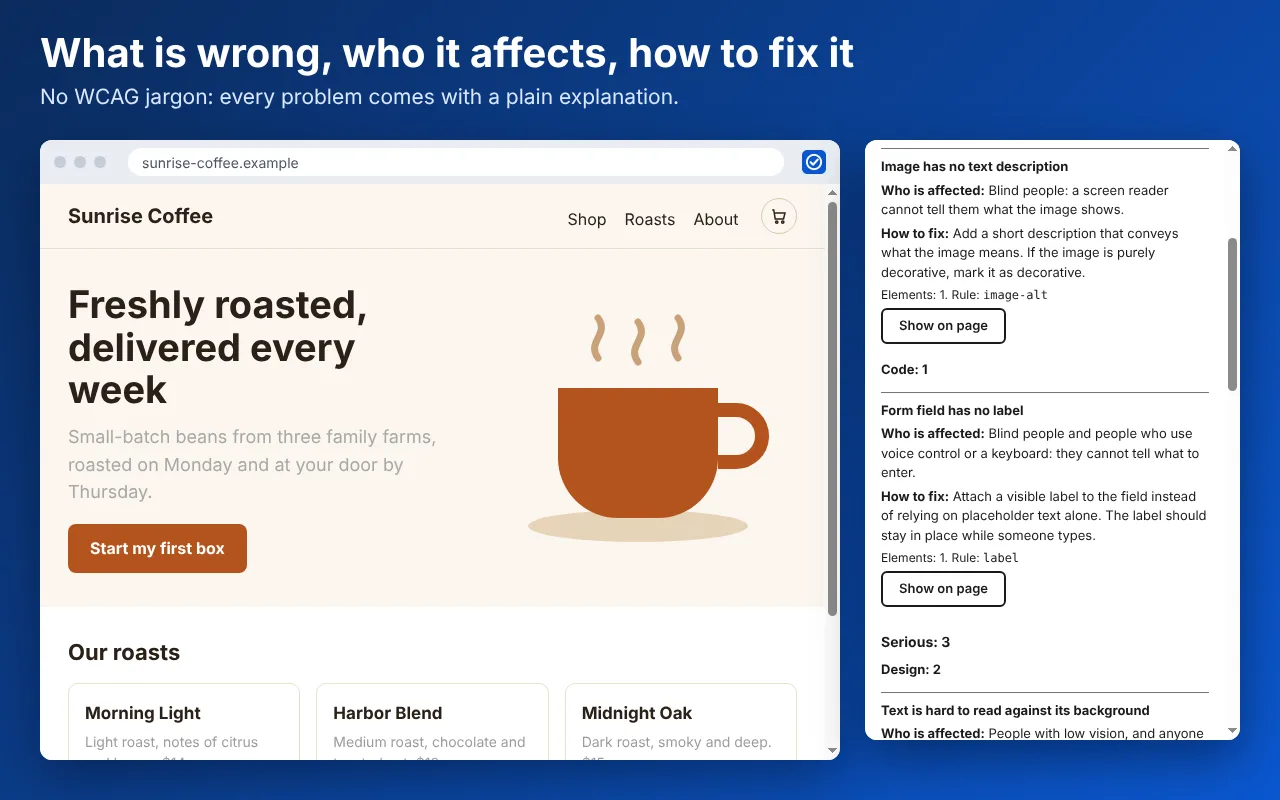
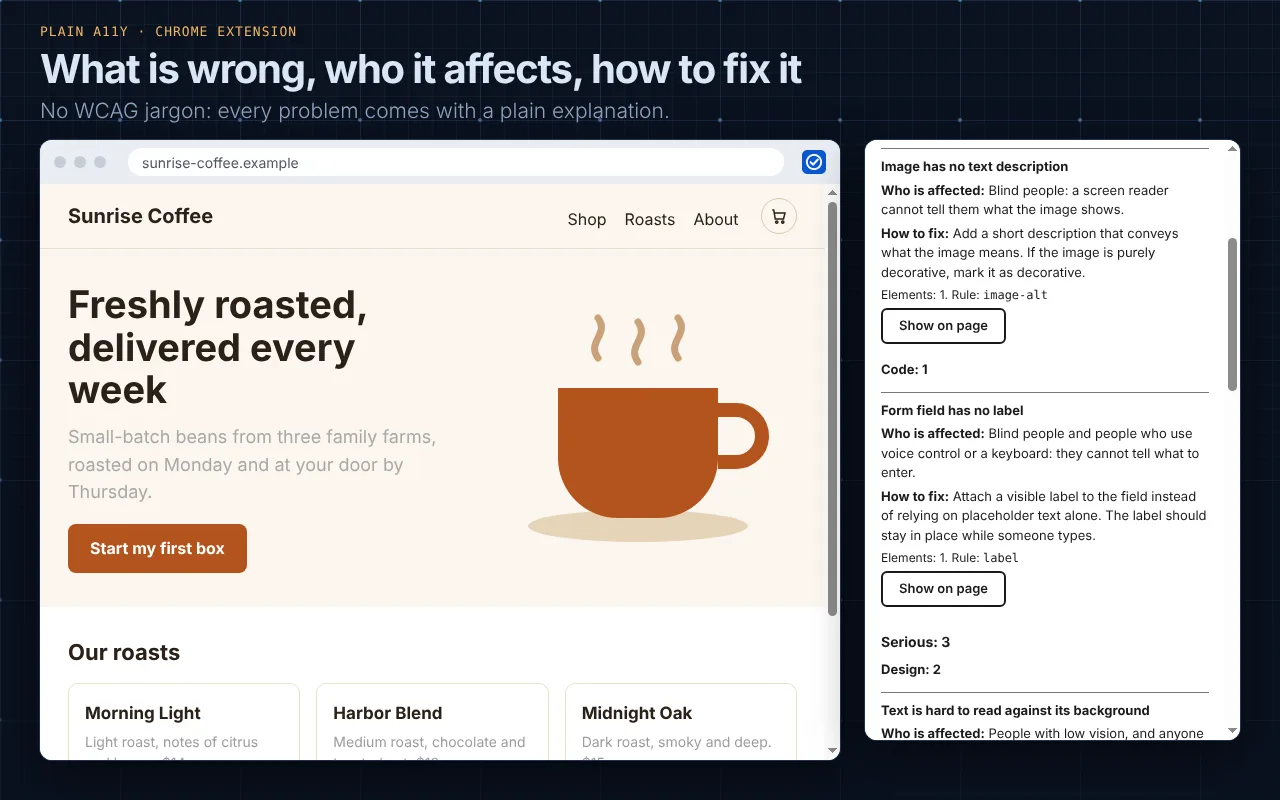
Site: brand title pattern, author tag, LinkedIn and GitHub in the footer, screenshots in the site palette
Claude-Session: https://claude.ai/code/session_012Dn7UsQVaKqD7whyVmPans

Changed region(s): [[0.0, 0.0, 1.0, 1.0]]

diff --git a/public/index.html b/public/index.html
@@ -3,8 +3,10 @@
   <head>
     <meta charset="utf-8" />
     <meta name="viewport" content="width=device-width, initial-scale=1" />
-    <title>Plain A11y: accessibility problems explained in plain language</title>
+    <title>Plain A11y: accessibility in plain language | Konstantin Beregovoy</title>
     <meta name="description" content="A free, open-source Chrome extension that checks a page for accessibility problems and explains each one in plain language: what is wrong, who it affects, how to fix it and who should do it." />
+    <meta name="author" content="Konstantin Beregovoy" />
+    <meta name="robots" content="index, follow" />
     <meta name="color-scheme" content="dark" />
     <meta name="theme-color" content="#0a1220" />
     <link rel="icon" href="assets/icon.svg" type="image/svg+xml" />
@@ -15,7 +17,7 @@
 
     <header class="site">
       <div class="wrap">
-        <a class="brand" href="./">
+        <a class="brand" href="./" aria-label="Plain A11y, home">
           <img src="assets/icon.svg" alt="" width="36" height="36" />
           Plain A11y
         </a>
@@ -344,7 +346,11 @@ npm run build</code></pre>
             It bundles <a href="https://github.com/dequelabs/axe-core">axe-core</a> (MPL-2.0) and
             <a href="https://react.dev">React</a> (MIT). Their notices are on the license page.
           </p>
-          <!-- Add a link to the GitHub repository here once it is public. -->
+          <p>
+            Built by Konstantin Beregovoy, a frontend engineer who works on accessibility and web standards.
+            More projects at <a href="https://bereg.dev">bereg.dev</a>.
+          </p>
+          <!-- Add a link to the GitHub repository of the project here once it is public. -->
         </section>
 
         <section class="block" id="roadmap" aria-labelledby="roadmap-title">
@@ -383,11 +389,15 @@ npm run build</code></pre>
     <footer class="site">
       <div class="wrap">
         <p>© 2026 Konstantin Beregovoy · MIT</p>
+        <p>
+          <a href="https://www.linkedin.com/in/konstantin-beregovoy/" rel="me">LinkedIn</a> ·
+          <a href="https://github.com/KonstantinBeregovoy" rel="me">GitHub</a> ·
+          <a href="https://bereg.dev">bereg.dev</a>
+        </p>
         <ul>
           <li><a href="#main">Back to top</a></li>
           <li><a href="privacy.html">Privacy</a></li>
           <li><a href="license.html">License</a></li>
-          <li><a href="https://bereg.dev">bereg.dev</a></li>
         </ul>
         <p class="site-note">Plain A11y is a working title. This site has no scripts, no cookies and no analytics.</p>
       </div>

diff --git a/public/privacy.html b/public/privacy.html
@@ -3,8 +3,10 @@
   <head>
     <meta charset="utf-8" />
     <meta name="viewport" content="width=device-width, initial-scale=1" />
-    <title>Privacy policy: Plain A11y</title>
+    <title>Privacy policy: Plain A11y | Konstantin Beregovoy</title>
     <meta name="description" content="Plain A11y collects nothing and sends nothing. All work happens in your browser." />
+    <meta name="author" content="Konstantin Beregovoy" />
+    <meta name="robots" content="index, follow" />
     <meta name="color-scheme" content="dark" />
     <meta name="theme-color" content="#0a1220" />
     <link rel="icon" href="assets/icon.svg" type="image/svg+xml" />
@@ -15,7 +17,7 @@
 
     <header class="site">
       <div class="wrap">
-        <a class="brand" href="./">
+        <a class="brand" href="./" aria-label="Plain A11y, home">
           <img src="assets/icon.svg" alt="" width="36" height="36" />
           Plain A11y
         </a>
@@ -93,11 +95,15 @@
     <footer class="site">
       <div class="wrap">
         <p>© 2026 Konstantin Beregovoy · MIT</p>
+        <p>
+          <a href="https://www.linkedin.com/in/konstantin-beregovoy/" rel="me">LinkedIn</a> ·
+          <a href="https://github.com/KonstantinBeregovoy" rel="me">GitHub</a> ·
+          <a href="https://bereg.dev">bereg.dev</a>
+        </p>
         <ul>
           <li><a href="#main">Back to top</a></li>
           <li><a href="privacy.html">Privacy</a></li>
           <li><a href="license.html">License</a></li>
-          <li><a href="https://bereg.dev">bereg.dev</a></li>
         </ul>
         <p class="site-note">Plain A11y is a working title. This site has no scripts, no cookies and no analytics.</p>
       </div>

diff --git a/public/license.html b/public/license.html
@@ -3,8 +3,10 @@
   <head>
     <meta charset="utf-8" />
     <meta name="viewport" content="width=device-width, initial-scale=1" />
-    <title>License: Plain A11y</title>
+    <title>License: Plain A11y | Konstantin Beregovoy</title>
     <meta name="description" content="Plain A11y is released under the MIT License." />
+    <meta name="author" content="Konstantin Beregovoy" />
+    <meta name="robots" content="index, follow" />
     <meta name="color-scheme" content="dark" />
     <meta name="theme-color" content="#0a1220" />
     <link rel="icon" href="assets/icon.svg" type="image/svg+xml" />
@@ -15,7 +17,7 @@
 
     <header class="site">
       <div class="wrap">
-        <a class="brand" href="./">
+        <a class="brand" href="./" aria-label="Plain A11y, home">
           <img src="assets/icon.svg" alt="" width="36" height="36" />
           Plain A11y
         </a>
@@ -98,11 +100,15 @@ SOFTWARE.</pre>
     <footer class="site">
       <div class="wrap">
         <p>© 2026 Konstantin Beregovoy · MIT</p>
+        <p>
+          <a href="https://www.linkedin.com/in/konstantin-beregovoy/" rel="me">LinkedIn</a> ·
+          <a href="https://github.com/KonstantinBeregovoy" rel="me">GitHub</a> ·
+          <a href="https://bereg.dev">bereg.dev</a>
+        </p>
         <ul>
           <li><a href="#main">Back to top</a></li>
           <li><a href="privacy.html">Privacy</a></li>
           <li><a href="license.html">License</a></li>
-          <li><a href="https://bereg.dev">bereg.dev</a></li>
         </ul>
         <p class="site-note">Plain A11y is a working title. This site has no scripts, no cookies and no analytics.</p>
       </div>

diff --git a/public/404.html b/public/404.html
@@ -3,8 +3,10 @@
   <head>
     <meta charset="utf-8" />
     <meta name="viewport" content="width=device-width, initial-scale=1" />
-    <title>Page not found: Plain A11y</title>
+    <title>Page not found: Plain A11y | Konstantin Beregovoy</title>
     <meta name="description" content="This page does not exist." />
+    <meta name="author" content="Konstantin Beregovoy" />
+    <meta name="robots" content="noindex, nofollow" />
     <meta name="color-scheme" content="dark" />
     <meta name="theme-color" content="#0a1220" />
     <link rel="icon" href="/assets/icon.svg" type="image/svg+xml" />
@@ -15,7 +17,7 @@
 
     <header class="site">
       <div class="wrap">
-        <a class="brand" href="/">
+        <a class="brand" href="/" aria-label="Plain A11y, home">
           <img src="/assets/icon.svg" alt="" width="36" height="36" />
           Plain A11y
         </a>
@@ -46,11 +48,15 @@
     <footer class="site">
       <div class="wrap">
         <p>© 2026 Konstantin Beregovoy · MIT</p>
+        <p>
+          <a href="https://www.linkedin.com/in/konstantin-beregovoy/" rel="me">LinkedIn</a> ·
+          <a href="https://github.com/KonstantinBeregovoy" rel="me">GitHub</a> ·
+          <a href="https://bereg.dev">bereg.dev</a>
+        </p>
         <ul>
           <li><a href="#main">Back to top</a></li>
           <li><a href="/privacy.html">Privacy</a></li>
           <li><a href="/license.html">License</a></li>
-          <li><a href="https://bereg.dev">bereg.dev</a></li>
         </ul>
         <p class="site-note">Plain A11y is a working title. This site has no scripts, no cookies and no analytics.</p>
       </div>

diff --git a/tests/site.test.js b/tests/site.test.js
@@ -28,6 +28,23 @@ describe.each(PAGES)('%s', (page) => {
     expect(doc.getElementById('main')).not.toBeNull();
   });
 
+  it('follows the title pattern and the author tag of bereg.dev', () => {
+    expect(doc.title.endsWith(' | Konstantin Beregovoy'), doc.title).toBe(true);
+    expect(doc.querySelector('meta[name="author"]')?.getAttribute('content')).toBe('Konstantin Beregovoy');
+    expect(doc.querySelector('meta[name="robots"]')).not.toBeNull();
+  });
+
+  it('has the footer of bereg.dev: copyright, LinkedIn and GitHub of the author, and a link to the main site', () => {
+    const footer = doc.querySelector('footer.site');
+    expect(footer?.textContent).toContain('© 2026 Konstantin Beregovoy');
+    const links = Object.fromEntries([...footer.querySelectorAll('a')].map((a) => [a.textContent.trim(), a]));
+    expect(links['LinkedIn']?.getAttribute('href')).toBe('https://www.linkedin.com/in/konstantin-beregovoy/');
+    expect(links['GitHub']?.getAttribute('href')).toBe('https://github.com/KonstantinBeregovoy');
+    expect(links['LinkedIn']?.getAttribute('rel')).toBe('me');
+    expect(links['GitHub']?.getAttribute('rel')).toBe('me');
+    expect(links['bereg.dev']?.getAttribute('href')).toBe('https://bereg.dev');
+  });
+
   it('has exactly one h1 and no skipped heading levels', () => {
     const levels = [...doc.querySelectorAll('h1, h2, h3, h4, h5, h6')].map((h) => Number(h.tagName[1]));
     expect(levels.filter((level) => level === 1)).toHaveLength(1);

diff --git a/public/style.css b/public/style.css
@@ -123,7 +123,7 @@ nav a:hover { color: var(--text); }
 nav a[aria-current='page'] { color: var(--accent); border-bottom-color: var(--accent); }
 
 footer.site { border-top: 1px solid var(--line); padding: var(--s4) 0; color: var(--muted); font-family: var(--mono); font-size: 13px; }
-footer.site .wrap { display: flex; flex-wrap: wrap; justify-content: space-between; gap: var(--s2); }
+footer.site .wrap { display: flex; flex-wrap: wrap; align-items: center; justify-content: space-between; gap: var(--s2); }
 footer.site ul { display: flex; flex-wrap: wrap; gap: var(--s1) var(--s3); list-style: none; margin: 0; padding: 0; }
 footer.site a { display: inline-block; padding: 8px 0; color: var(--muted); }
 footer.site a:hover { color: var(--text); }
